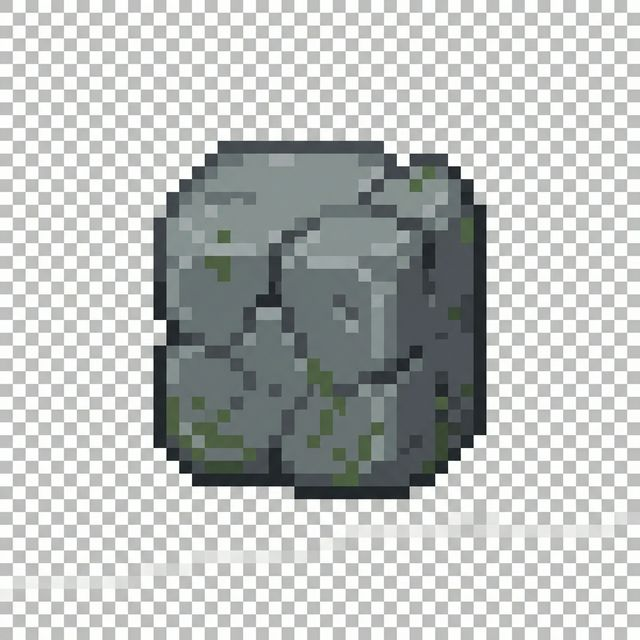
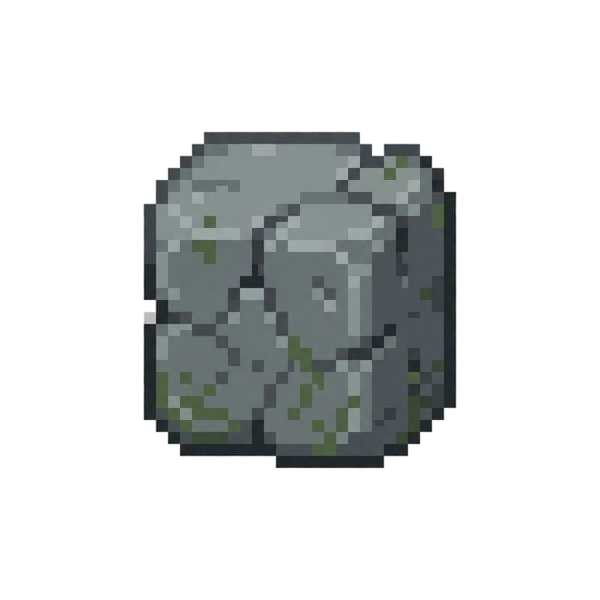
proyect finished

diff --git a/js/pathfinding.js b/js/pathfinding.js
@@ -21,8 +21,9 @@ export class Pathfinding {
 
         // Vecindad de Moore (8 direcciones)
         const dirs = [
-            { dx: 0, dy: -1 }, { dx: 1, dy: -1 }, { dx: 1, dy: 0 }, { dx: 1, dy: 1 },
-            { dx: 0, dy: 1 }, { dx: -1, dy: 1 }, { dx: -1, dy: 0 }, { dx: -1, dy: -1 }
+            { dx: 0, dy: 0 }, { dx: 1, dy: 0 }, { dx: -1, dy: 0 }, { dx: 0, dy: 1 },
+            { dx: 1, dy: 1 }, { dx: -1, dy: 1 }, { dx: 0, dy: -1 }, { dx: 1, dy: -1 },
+            { dx: -1, dy: -1 }
         ].sort(() => Math.random() - 0.5); // Randomizar orden para evitar sesgo diagonal
 
         for (let dir of dirs) {
@@ -34,11 +35,11 @@ export class Pathfinding {
 
             if (isDestinationEmpty) {
                 // Prevención de "Corner Cutting": No pasar en diagonal si hay un obstáculo en el lateral
-                if (dir.dx !== 0 && dir.dy !== 0) {
-                    const block1 = !this.engine.isCellEmpty(agente.x + dir.dx, agente.y);
-                    const block2 = !this.engine.isCellEmpty(agente.x, agente.y + dir.dy);
-                    if (block1 || block2) continue; // Bloquear si hay pared en las esquinas
-                }
+                // if (dir.dx !== 0 && dir.dy !== 0) {
+                //     const block1 = !this.engine.isCellEmpty(agente.x + dir.dx, agente.y);
+                //     const block2 = !this.engine.isCellEmpty(agente.x, agente.y + dir.dy);
+                //     if (block1 || block2) continue; // Bloquear si hay pared en las esquinas
+                // }
 
                 const dist = Math.abs(nx - objetivo.x) + Math.abs(ny - objetivo.y);
 

diff --git a/js/renderer.js b/js/renderer.js
@@ -124,9 +124,9 @@ export function draw(state, assets) {
 
             const img = assets.images['PIEDRA'];
             if (img) {
-                const cropMargin = img.width * 0.35;
-                const sourceSize = img.width * 0.35;
-                const stoneSize = s * 0.8;
+                const cropMargin = img.width * 0.1;
+                const sourceSize = img.width * 0.8;
+                const stoneSize = s * 0.9;
                 const offset = (s - stoneSize) / 2;
 
                 ctx.drawImage(
@@ -135,7 +135,7 @@ export function draw(state, assets) {
                     x + offset, y + offset, stoneSize, stoneSize
                 );
             } else {
-                const stoneSize = s * 0.6;
+                const stoneSize = s * 0.9;
                 const offset = (s - stoneSize) / 2;
                 const px = stoneSize / 4;
                 ctx.fillStyle = '#454d4f';

diff --git a/index.html b/index.html
@@ -28,7 +28,7 @@
 
                 <label>
                     Población Malos: <span id="val-malos">5</span>
-                    <input type="range" id="cfg-malos" min="1" max="50" value="5" class="slider slider-malo">
+                    <input type="range" id="cfg-malos" min="5" max="100" value="5" class="slider slider-malo">
                 </label>
 
                 <label>

diff --git a/js/simulation.js b/js/simulation.js
@@ -139,8 +139,8 @@ export function updateGameLogic(state, engine, pathfinder) {
  */
 export function getRandomCoord() {
     return {
-        x: Math.floor(Math.random() * (CONSTANTS.COLS - 2)),
-        y: Math.floor(Math.random() * (CONSTANTS.ROWS - 2))
+        x: Math.floor(Math.random() * (CONSTANTS.COLS)),
+        y: Math.floor(Math.random() * (CONSTANTS.ROWS))
     };
 }
 

diff --git a/js/assets.js b/js/assets.js
@@ -45,7 +45,7 @@ export const ANIMATIONS = {
     MALO: {
         basePath: 'assets/Monsters_Creatures_Fantasy/Monsters_Creatures_Fantasy/Flying eye/',
         frameWidth: 150,
-        frameHeight: 150,
+        frameHeight: 110,
         states: {
             idle: { file: 'Flight.png', frames: 8 },
             run: { file: 'Flight.png', frames: 8 },
